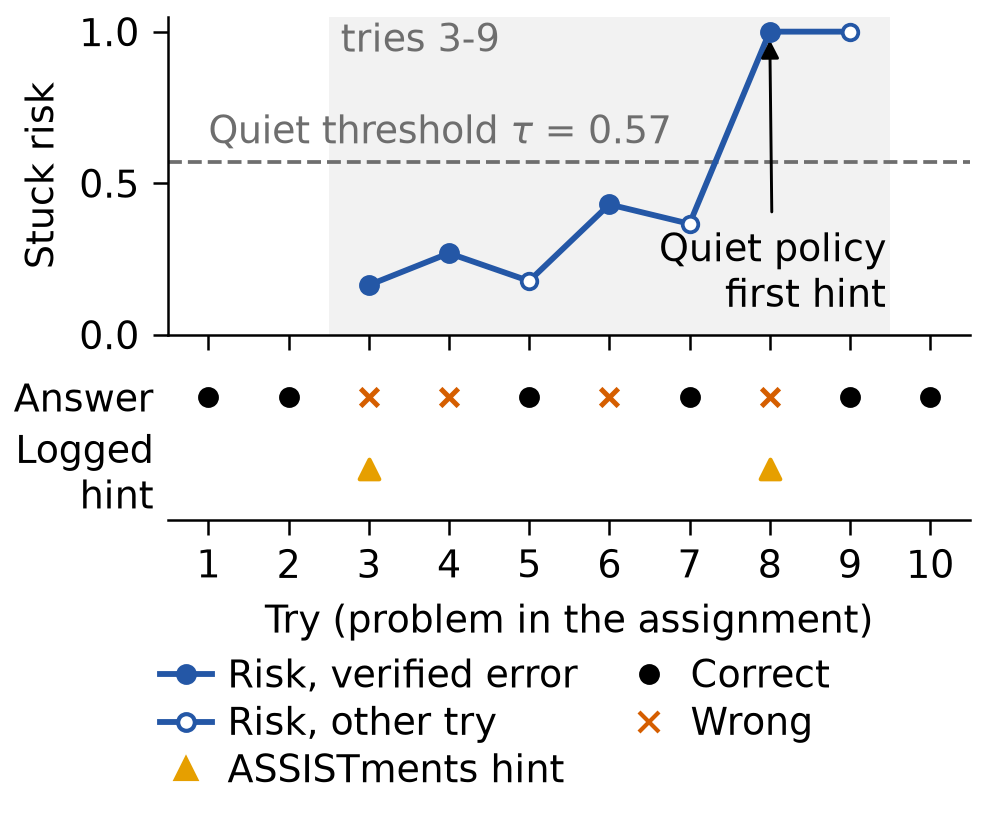
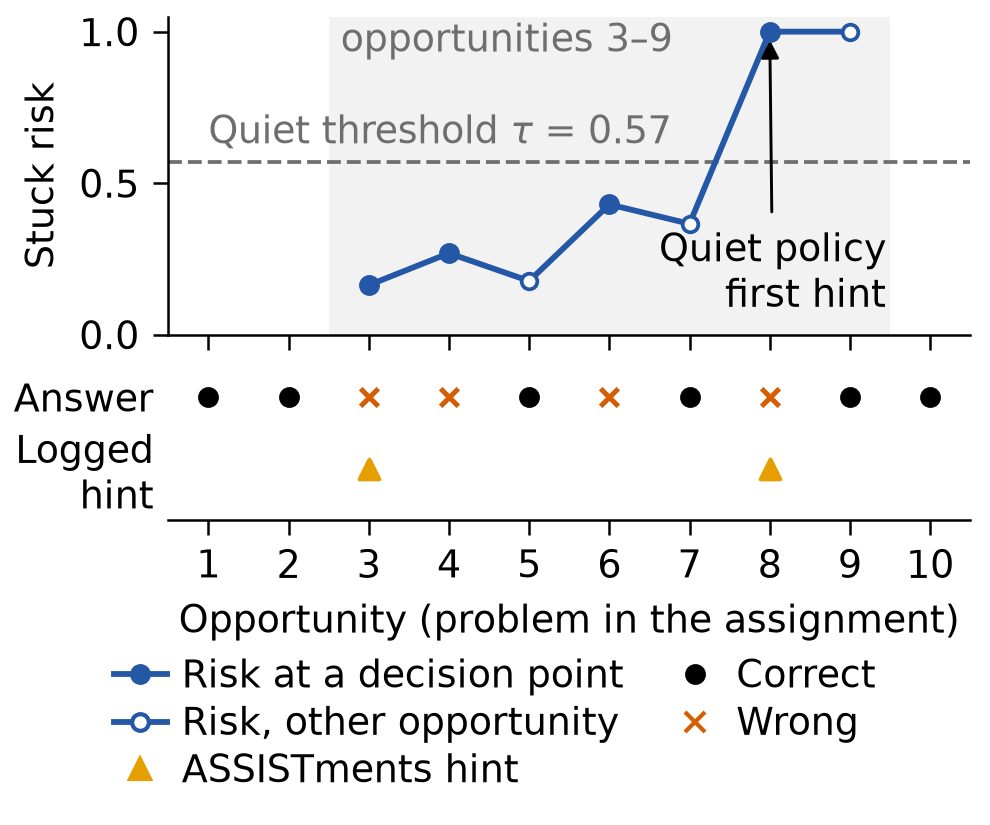
CALE figures: match paper terminology

Changed region(s): [[0.1212, 0.7273, 0.9697, 0.9697], [0.3333, 0.0303, 0.697, 0.0606]]

diff --git a/scripts/cale/fig2_tradeoff.py b/scripts/cale/fig2_tradeoff.py
@@ -45,12 +45,12 @@ def main():
     # Baselines as points.
     rule = [o["n_rule"][str(n)] for n in range(1, 6)]
     for n, r in zip(range(1, 6), rule):
-        h = point(ax, r, marker="D", s=18, color=FS.OI["vermillion"], zorder=5, label="k-in-a-row rule" if n == 2 else None)
+        h = point(ax, r, marker="D", s=18, color=FS.OI["vermillion"], zorder=5, label="n-errors-in-a-row rule" if n == 2 else None)
         if n == 1:
             ax.annotate("Always-\nhelp", (r["hints_per_student"], 100 * r["missed_help_rate"]), xytext=(0, 7), textcoords="offset points",
                         ha="center", va="bottom", linespacing=0.9, color="#2B2B2B")
         else:
-            ax.annotate(f"k={n}", (r["hints_per_student"], 100 * r["missed_help_rate"]), xytext=(-6, 0) if n == 2 else (5, -1),
+            ax.annotate(f"n={n}", (r["hints_per_student"], 100 * r["missed_help_rate"]), xytext=(-6, 0) if n == 2 else (5, -1),
                         textcoords="offset points", va="center", ha="right" if n == 2 else "left", color="#2B2B2B")
     for i, r in enumerate(o["random_matched"].values()):
         point(ax, r, marker="x", s=18, color=FS.OI["gray"], linewidths=0.9, zorder=4, label="Random (matched)" if i == 0 else None)
@@ -69,8 +69,8 @@ def main():
     ax.set_xticks([0, 0.5, 1, 1.5, 2, 2.5, 3])
     ax.grid(True, axis="y")
     handles = [h for h in ax.get_legend_handles_labels()[0] if h not in settings] + settings
-    leg = ax.legend(handles=handles, loc="upper right", frameon=False, handlelength=1.8, borderaxespad=0.1, labelspacing=0.2,
-                    handletextpad=0.5)
+    leg = ax.legend(handles=handles, loc="upper right", frameon=False, handlelength=1.3, borderaxespad=0.0, labelspacing=0.2,
+                    handletextpad=0.3)
     for t in leg.get_texts()[-3:]:
         t.set_color(FS.SETTING[t.get_text().split()[0].lower()])
 

diff --git a/scripts/cale/fig1_entanglement.py b/scripts/cale/fig1_entanglement.py
@@ -93,7 +93,7 @@ def main():
     ax.set_ylim(0, 1.05)
     ax.set_ylabel("Stuck risk")
     ax.set_yticks([0, 0.5, 1])
-    ax.text(2.65, 1.03, "tries 3-9", ha="left", va="top", color=FS.OI["gray"])
+    ax.text(2.65, 1.03, "opportunities 3–9", ha="left", va="top", color=FS.OI["gray"])
 
     y_ans, y_hint = 1.0, 0.0
     for t, c, f in zip(tries, corr, fa):
@@ -112,9 +112,9 @@ def main():
     st.spines["left"].set_visible(False)
     st.set_xlim(0.5, n_show + 0.5)
     st.set_xticks(tries)
-    st.set_xlabel("Try (problem in the assignment)")
-    handles = [Line2D([], [], color=q_col, marker="o", mfc=q_col, ms=4, label="Risk, verified error"),
-               Line2D([], [], color=q_col, marker="o", mfc="white", ms=4, label="Risk, other try"),
+    st.set_xlabel("Opportunity (problem in the assignment)")
+    handles = [Line2D([], [], color=q_col, marker="o", mfc=q_col, ms=4, label="Risk at a decision point"),
+               Line2D([], [], color=q_col, marker="o", mfc="white", ms=4, label="Risk, other opportunity"),
                Line2D([], [], ls="", marker="^", color=FS.OI["orange"], ms=5, label="ASSISTments hint"),
                Line2D([], [], ls="", marker="o", color="black", ms=4, label="Correct"),
                Line2D([], [], ls="", marker="x", color=FS.OI["vermillion"], ms=5, label="Wrong")]
